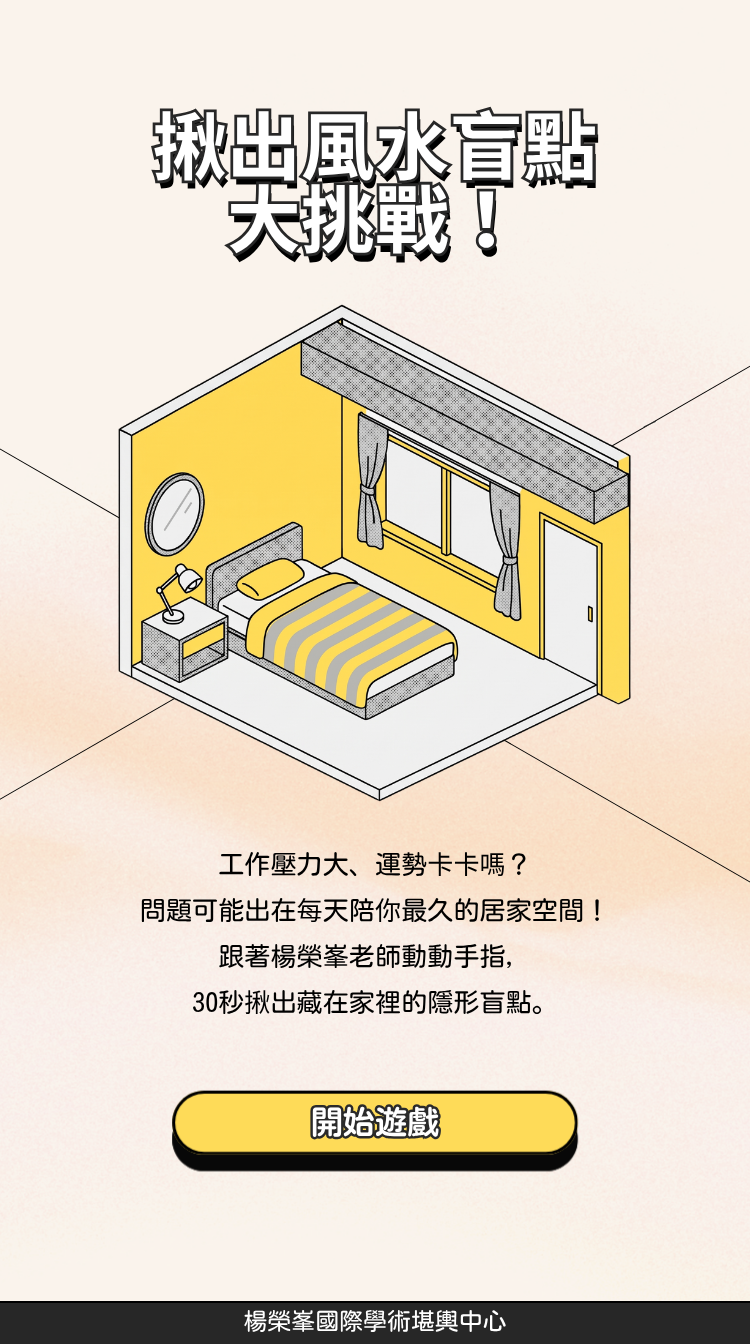
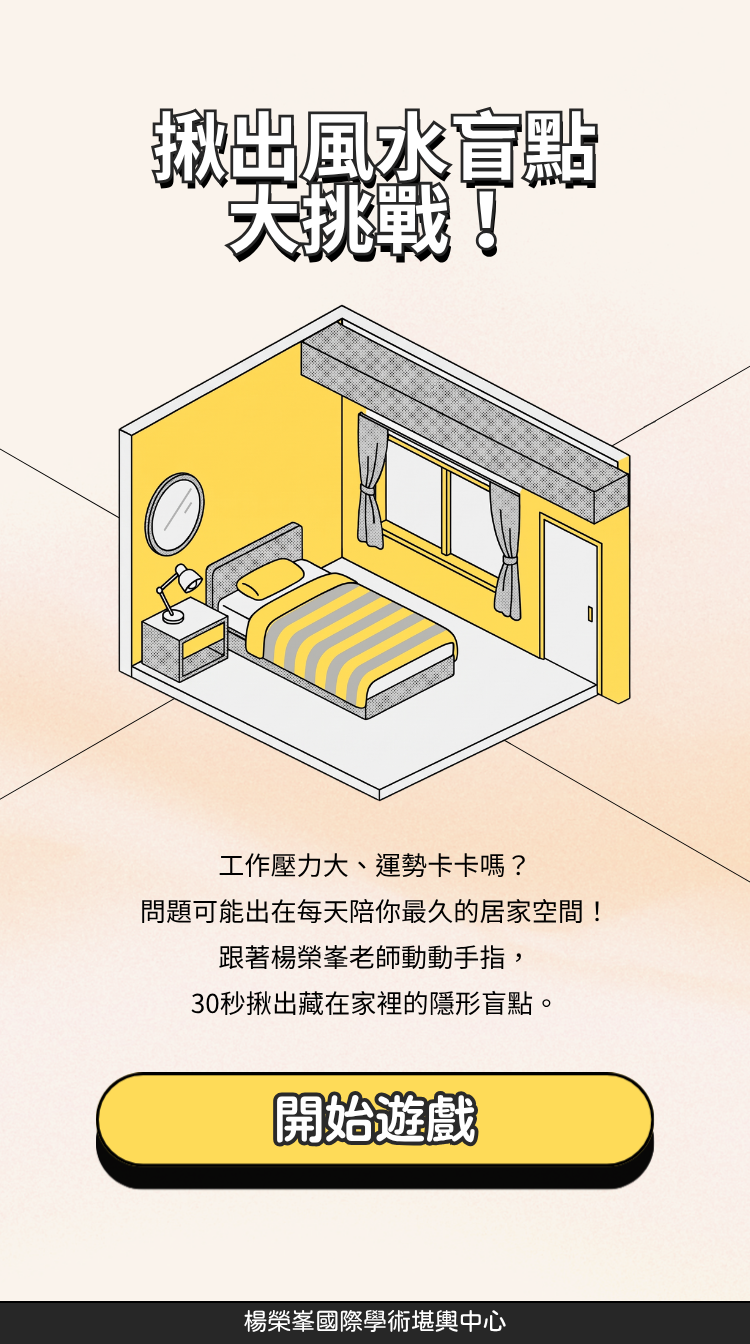
Add files via upload

Changed region(s): [[0.1227, 0.625, 0.8893, 0.9062]]

diff --git a/index.html b/index.html
@@ -55,13 +55,13 @@
             cursor: pointer;
         }
         
-        /* 封面開始遊戲按鈕 (左上 172,1092 / 右下 578,1171) */
+        /* 封面開始遊戲按鈕 (左上 95,1073 / 右下 655,1192) */
         .start-btn-area {
             position: absolute;
-            top: 81.25%;
-            left: 22.93%;
-            width: 54.13%;
-            height: 5.88%;
+            top: 79.84%;
+            left: 12.67%;
+            width: 74.67%;
+            height: 8.85%;
             cursor: pointer;
             background: transparent;
             z-index: 10;
